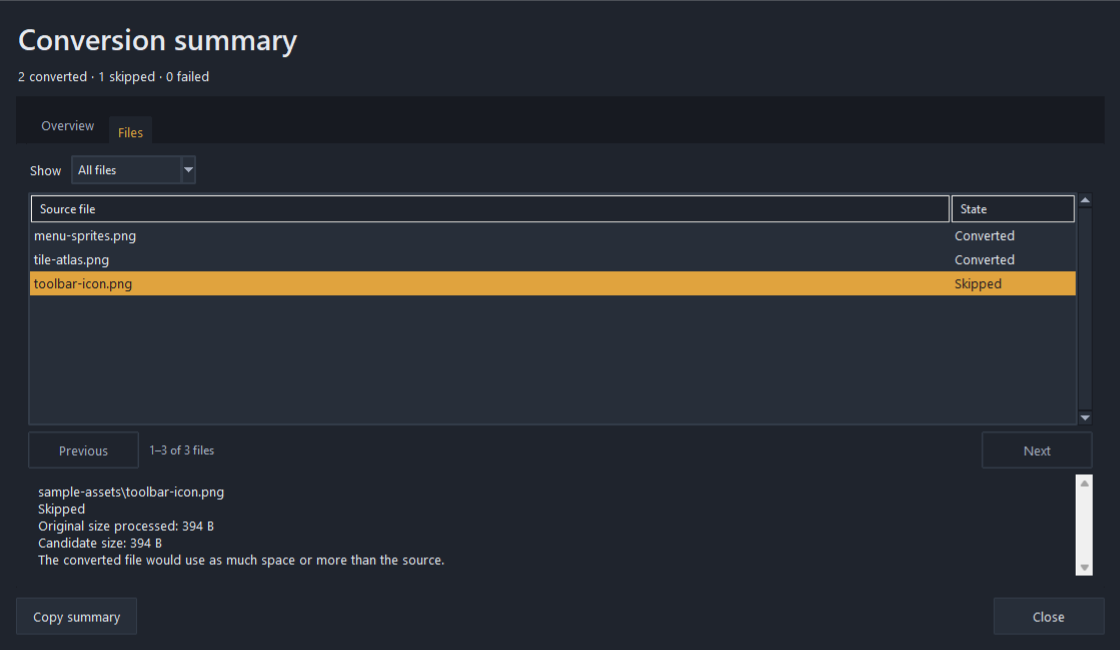
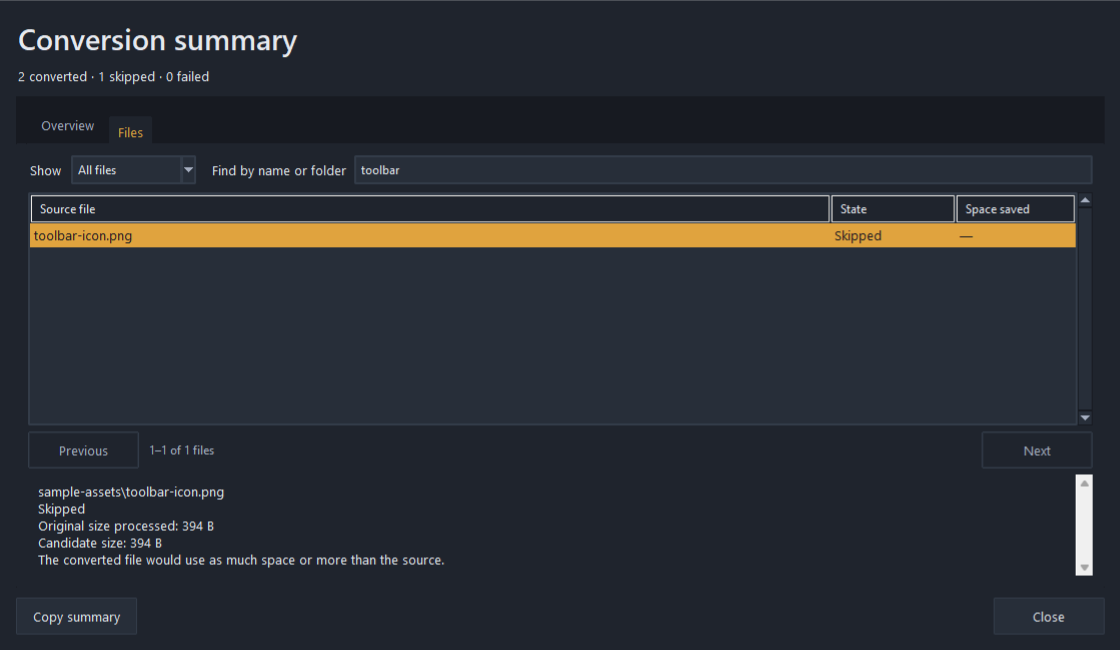
feat(portfolio): publish Media Batch Converter 0.4.1 for Windows

Changed region(s): [[0.0, 0.2769, 0.9688, 0.4615], [0.1875, 0.2462, 0.375, 0.2769]]

diff --git a/src/content/developerTools.ts b/src/content/developerTools.ts
@@ -167,14 +167,14 @@ const portfolioProducts: DeveloperTool[] = [
       es: "Herramienta de escritorio de código abierto para convertir imágenes, audio, vídeo y documentos por lotes. Permite reducir el peso de recursos de videojuegos, como sprites, bandas sonoras y cinemáticas, con ajustes predefinidos para cada tipo de archivo.",
     },
     details: {
-      en: "The app processes files locally and keeps the originals intact. The “Save only if smaller” option compares the actual file sizes before writing the output. The batch summary shows how much space was saved and lets you inspect each result.",
-      es: "La app procesa los archivos en local y conserva los originales. La opción «Guardar solo si ocupa menos» compara el tamaño real antes de guardar la salida. El resumen del lote muestra el espacio ahorrado y permite revisar cada resultado.",
+      en: "The app processes files locally. Review a folder, exclude drafts and see the size of your selection before converting. “Save only if smaller” keeps outputs that take up less space. Search the results by filename or folder to see what each file saved.",
+      es: "La app procesa los archivos en local. Antes de convertir una carpeta puedes excluir borradores y ver cuánto ocupa la selección. «Guardar solo si ocupa menos» conserva las salidas que reducen el tamaño. El buscador del resumen permite consultar el ahorro por archivo.",
     },
     highlights: {
       en: [
         "Recursive batch processing with preserved folder structure.",
         "AVIF and WebP for compact images, plus lossless PNG optimization.",
-        "Audio and video presets for Opus, AAC, H.264 and HEVC with FFmpeg.",
+        "Choose a local FFmpeg executable to enable audio and video. Size limits apply to the complete video.",
         "Files tab for PDF, Word, spreadsheets and slides, with optional LibreOffice.",
         "Multi-resolution ICO favicons from any source image.",
         "Bilingual interface switched at runtime, Spanish and English.",
@@ -183,7 +183,7 @@ const portfolioProducts: DeveloperTool[] = [
       es: [
         "Procesamiento recursivo por lotes conservando la estructura de carpetas.",
         "AVIF y WebP para imágenes ligeras, con optimización de PNG sin pérdida.",
-        "Ajustes de audio y vídeo para Opus, AAC, H.264 y HEVC mediante FFmpeg.",
+        "Elige FFmpeg en Diagnóstico para activar audio y vídeo. El límite de tamaño se aplica al vídeo completo.",
         "Pestaña Archivos para PDF, Word, hojas y presentaciones, con LibreOffice opcional.",
         "Favicons ICO multirresolución a partir de cualquier imagen.",
         "Interfaz bilingüe conmutable en caliente, español e inglés.",
@@ -191,6 +191,13 @@ const portfolioProducts: DeveloperTool[] = [
       ],
     },
     images: [
+      {
+        src: "/projects/media-batch-converter/batch-review.webp",
+        caption: {
+          en: "Three files included in a batch, with a draft excluded and the total input size shown",
+          es: "Lote con tres archivos incluidos, un borrador excluido y el tamaño total de la selección",
+        },
+      },
       {
         src: "/projects/media-batch-converter/images-tab.webp",
         caption: {
@@ -237,11 +244,11 @@ const portfolioProducts: DeveloperTool[] = [
     technologies: ["Python", "Tkinter", "Pillow", "FFmpeg", "LibreOffice", "PyInstaller"],
     badge: { en: "Open Source", es: "Código abierto" },
     metadata: {
-      en: "Windows x64 · v0.3.0 · MIT License",
-      es: "Windows x64 · v0.3.0 · Licencia MIT",
+      en: "Windows x64 · v0.4.1 · MIT License",
+      es: "Windows x64 · v0.4.1 · Licencia MIT",
     },
     repositoryUrl: "https://github.com/JoanOliver04/media-batch-converter",
-    releaseUrl: "https://github.com/JoanOliver04/media-batch-converter/releases/tag/v0.3.0",
+    releaseUrl: "https://github.com/JoanOliver04/media-batch-converter/releases/download/v0.4.1/MediaBatchConverter-0.4.1-windows-x64.zip",
     license: "MIT",
   },
 ];

diff --git a/README.md b/README.md
@@ -55,9 +55,9 @@ Focus.
 
 [Media Batch Converter](https://github.com/JoanOliver04/media-batch-converter)
 is a local batch converter for images, audio, video, and documents. The
-**Developer Tools** entry links to the [Windows x64 release](https://github.com/JoanOliver04/media-batch-converter/releases/tag/v0.3.0)
-and includes six screenshots. Two show how the app measures space saved and
-reports why it skipped a file.
+**Developer Tools** entry links to the [Windows x64 release](https://github.com/JoanOliver04/media-batch-converter/releases/tag/v0.4.1)
+and offers a direct ZIP download. Seven screenshots show how to choose files,
+configure the encoders and inspect the savings for each output.
 
 ---
 
